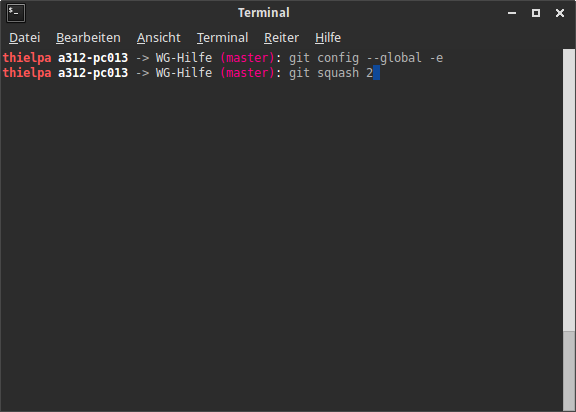
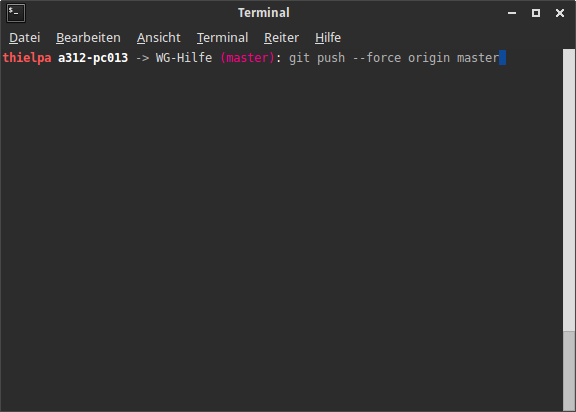
update(): update autoprefixer and fix design for squash tutorial.
- Register Squash Tutorial
- Autoprefixer
- Update Content of Squash
- Added `Pre` styling

Closes #59

Changed region(s): [[0.5, 0.1165, 0.875, 0.2039], [0.0, 0.1456, 0.2188, 0.2039], [0.25, 0.1456, 0.4688, 0.2039]]

diff --git a/gulpfile.js b/gulpfile.js
@@ -13,7 +13,9 @@ var dist = "dist";
 gulp.task("scripts", function() {
   return gulp.src('src/js/**/*.js')
       .pipe(print())
-      .pipe(uglify({mangle: false}).on("error", handleError))
+      .pipe(uglify({
+          mangle: false
+      }).on("error", handleError))
       .pipe(concat("app.js"))
       .pipe(license("Apache", {
         organization: 'Werdenfels-Gymnasium All rights reserved.'
@@ -26,7 +28,11 @@ gulp.task("styles", function() {
       .pipe(print())
       .pipe(concat("app.scss"))
       .pipe(sass())
-      .pipe(autoprefixer({browsers: ['last 2 versions'], cascade: false}))
+      .pipe(autoprefixer({
+        browsers: [
+        'last 2 versions', 'last 4 Android versions'
+        ]
+      }))
       .pipe(minifycss())
       .pipe(license("Apache", {
         organization: 'Werdenfels-Gymnasium All rights reserved.'

diff --git a/src/scss/app.scss b/src/scss/app.scss
@@ -77,6 +77,8 @@ md-collapse-menu-item {
 }
 
 div[marked] {
+  overflow: hidden;
+  word-break: break-all;
 
   img {
     max-width: 100%;
@@ -84,12 +86,19 @@ div[marked] {
     overflow: hidden;
   }
 
+  pre {
+    overflow-x: scroll;
+    overflow-y: hidden;
+    background-color: #f4f4f4;
+    border-radius: 3px;
+    padding: 5px;
+  }
+
   code {
     padding: 5px;
-    overflow: auto;
     font-size: 14px;
-    line-height: 1.45;
-    background-color: #f7f7f7;
+    line-height: 1.55;
+    background-color: #f4f4f4;
     border-radius: 3px;
   }
 }

diff --git a/src/partials/guide.tmpl.html b/src/partials/guide.tmpl.html
@@ -5,7 +5,7 @@
 </md-toolbar>
 <div class="md-whiteframe-z1 padding">
 
-  <div ng-if="!error" marked src="path">
+  <div class="guide-markdown" ng-if="!error" marked src="path">
   </div>
 
   <div ng-if="error">

diff --git a/src/content/guides/GITHUB/SQUASH/SQUASH.MD b/src/content/guides/GITHUB/SQUASH/SQUASH.MD
@@ -1,26 +1,22 @@
-1. Öffne das `.gitconfig` Dokument, welches sich in `~/.gitconfig` befindet, oder öffne es einfach über das Terminal mit `git config --global -e`
+1. Öffne deine Git Konfigurationsdatei (`.gitconfig`) durch die Verwendung von `git config --global -e`
 
    ![Screenshot 1](content/guides/GITHUB/SQUASH/screen1.png)
 
-2. Füge nun einen neuen Abschnitt 
-   
+2. Füge nun den folgenden Code-Ausschnitt ein.
 
 	```
-   
-	[alias]
-   
+    [alias]
 	squash = "!f(){ git reset --soft HEAD~${1} && git commit --edit -m\"$(git log --format=%B --reverse HEAD..HEAD@{1})\"; };f"
-   
 	```
-   hinzu
 
    ![Screenshot 2](content/guides/GITHUB/SQUASH/screen2.png)
 
-3. Speichere nun das Dokument; jetzt kann der Befehl `git squash [Anzahl der Commits]` genutzt werden
+3. Speichere nun das Dokument.
 
-   ![Screenshot 4](content/guides/GITHUB/SQUASH/screen4.png)
+   Jetzt kann der Befehl `git squash [Anzahl der Commits]` genutzt werden
+
    ![Screenshot 3](content/guides/GITHUB/SQUASH/screen3.png)
 
 4. Um den Squash hochzuladen, benutze das Syntax `git push --force [REMOTE] [BRANCH]`
 
-   ![Screenshot 5](content/guides/GITHUB/SQUASH/screen5.png)
+   ![Screenshot 5](content/guides/GITHUB/SQUASH/screen4.png)
